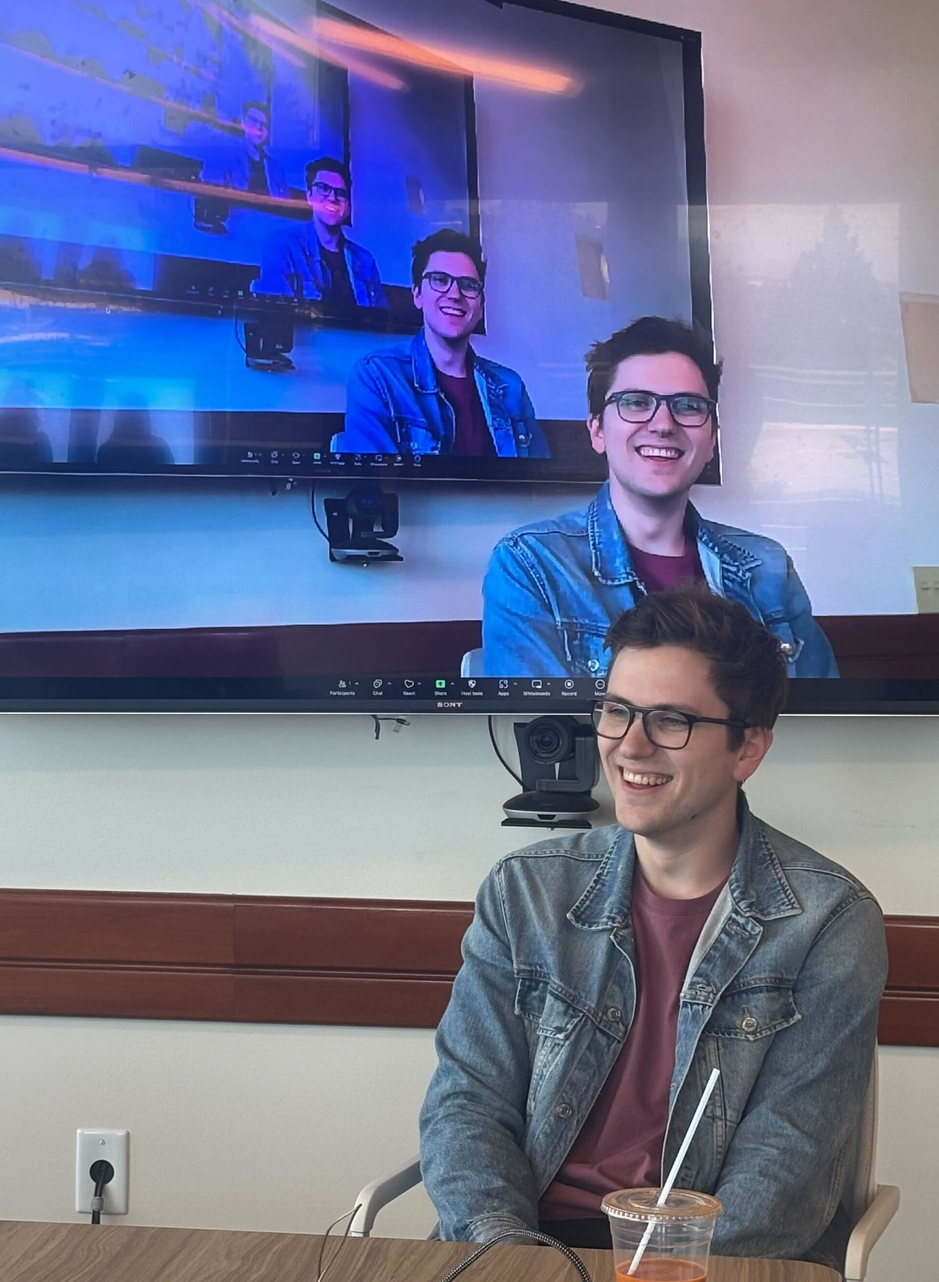
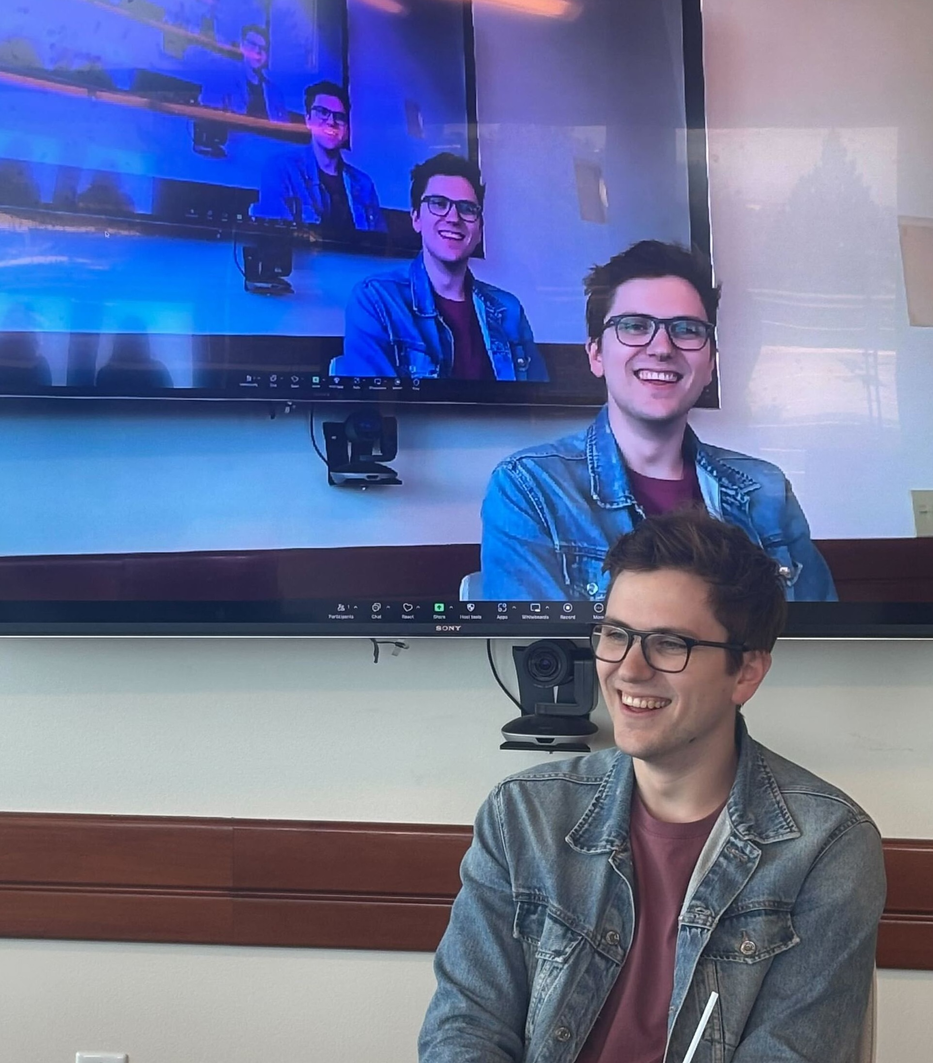
Update

diff --git a/_layouts/default.html b/_layouts/default.html
@@ -17,7 +17,8 @@
           <div class="span">
             <a href="{% link papers.md %}">Papers</a>
 	    &middot;
-            <a href="/ianws_cv.pdf">CV</a>
+	    <a href="{% link contact.md %}">Contact</a>
+            <!-- <a href="/ianws_cv.pdf">CV</a> -->
 	    <!-- &middot; -->
             <!-- <a href="{% link misc.md %}">Misc</a> -->
           </div>
@@ -31,7 +32,7 @@
       <!-- Footer  -->
       <div class="container" id="footer">
         <hr>
-	  <a href="mailto:ianws@berkeley.edu">ianws@berkeley.edu</a>
+      <!-- 	  <a href="mailto:ianws@berkeley.edu">ianws@berkeley.edu</a> -->
       </div>
     </div>
 

diff --git a/assets/css/style.scss b/assets/css/style.scss
@@ -26,7 +26,7 @@ $heading-color: #000000;
 $link-color: $accent_lightmode;
 
 $content-margin-bottom: 2em;
-$header-image-width-percentage: 30%;
+$header-image-width-percentage: 32%;
 
 @import "ed";
 @import "syntax";

diff --git a/index.md b/index.md
@@ -2,14 +2,32 @@
 layout: default
 title: "Ian Waudby-Smith"
 ---
+<div style="display: flex; align-items: center; width: 100%; gap: 20px;">
 
-<div id='headerim'><img  src="/assets/images/recurzoom.jpg"></div>
-<!-- <div id='caption'>Headshot found <a href="/assets/images/headshot2024.jpg">here</a></div></div> -->
+  <div style="text-align: left;">
+    Miller Fellow<br/>
+    Department of Statistics<br/>
+    University of California, Berkeley<br/>
+    <br/>
+    <a href="/ianws_cv.pdf">Curriculum vitae</a><br/>
+    <a href="https://scholar.google.com/citations?user=FnyNlFAAAAAJ">Google scholar</a>
+  </div>
+
+  <div id="headerim" style="margin-left: auto;">
+    <img
+      src="/assets/images/headshot2024.jpg"
+      style="display: block; margin: 0;"
+    >
+  </div>
+
+</div>
+<hr>
 
 I am a post-doctoral [Miller](https://miller.berkeley.edu/) fellow at the University of California, Berkeley. I am hosted in the [Department of Statistics](https://statistics.berkeley.edu/) by [Michael I. Jordan](https://people.eecs.berkeley.edu/~jordan/). 
 
-I completed my PhD in the [Department of Statistics and Data Science](https://www.cmu.edu/dietrich/statistics-datascience/index.html) at Carnegie Mellon University where I was advised by [Aaditya Ramdas](http://www.stat.cmu.edu/~aramdas/). Before that, I obtained a Bachelor's degree in mathematics and statistics from the [University of Waterloo](https://uwaterloo.ca/math/).
+I completed my PhD in the [Department of Statistics and Data Science](https://www.cmu.edu/dietrich/statistics-datascience/index.html) at Carnegie Mellon University where I was advised by [Aaditya Ramdas](http://www.stat.cmu.edu/~aramdas/) and received the Umesh K. Gavaskar Memorial Thesis Award. 
+<!-- Before that, I obtained a Bachelor's degree in mathematics and statistics from the [University of Waterloo](https://uwaterloo.ca/math/). -->
 
 I am broadly interested in statistics, machine learning theory, and probability. Recently, I have focused on topics in anytime-valid sequential inference, e-values, causal inference, concentration inequalities, and strong limit theorems. 
 
-Here is a [third person bio](/thirdpersonbio.txt) and [a recent headshot](/assets/images/headshot2024.jpg).
+<!-- Here is a [third person bio](/thirdpersonbio.txt) and [a recent headshot](/assets/images/headshot2024.jpg). -->

diff --git a/papers.md b/papers.md
@@ -11,6 +11,7 @@ image: /assets/images/manuscript.jpeg
   
   <h1>Selected papers </h1>
   
+  (A full list can be found in <a href="/ianws_cv.pdf">my CV</a>.)
   
   <table class='papers-table'>
   {% for pub in pubs %}
@@ -45,7 +46,6 @@ image: /assets/images/manuscript.jpeg
   {% endfor %}
   </table> 
  
-  Additional papers can be found in <a href="/ianws_cv.pdf">my CV</a>.
   
   
 <!-- {% capture markdown_content %}

diff --git a/contact.md b/contact.md
@@ -1,0 +1,15 @@
+---
+layout: page
+title: Contact
+---
+
+## Physical Address
+
+Ian Waudby-Smith<br/>
+Office 3158<br/>
+Barbara and Gerson Bakar Gateway<br/>
+2300 Hearst Ave<br/>
+Berkeley, CA 94720<br/>
+
+## Email
+<a href="mailto:ianws@berkeley.edu">ianws@berkeley.edu</a>
